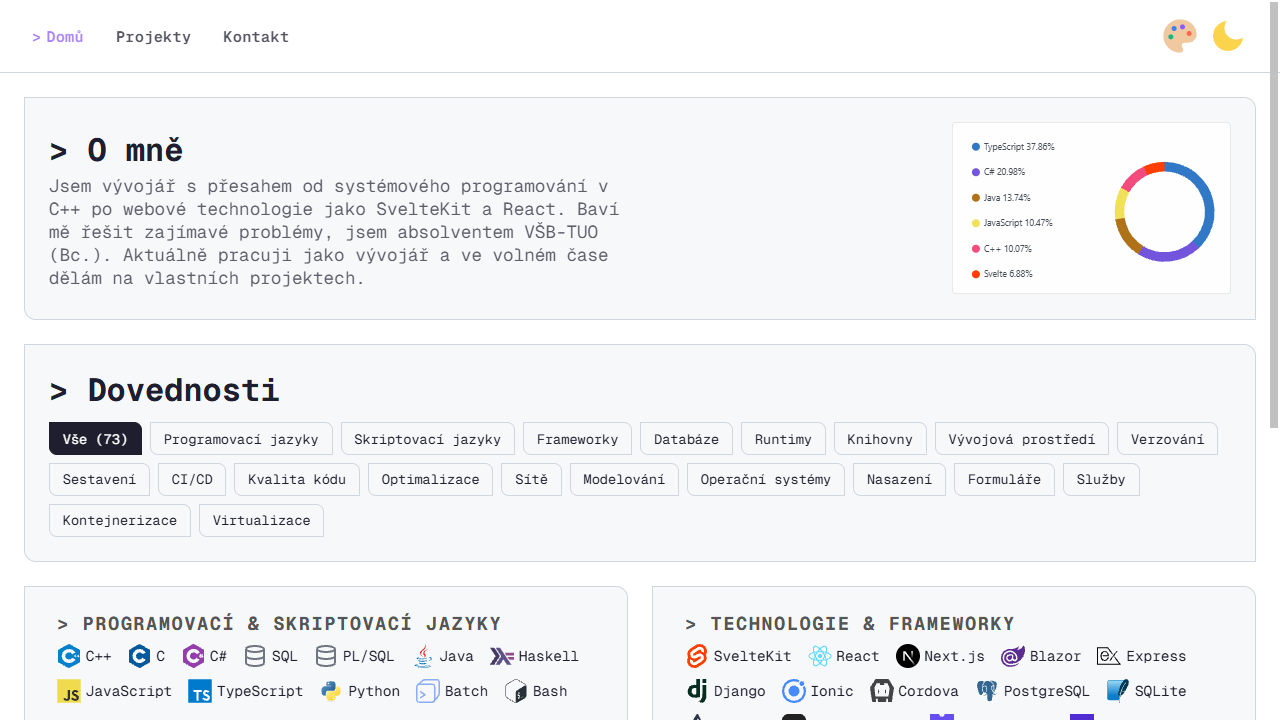
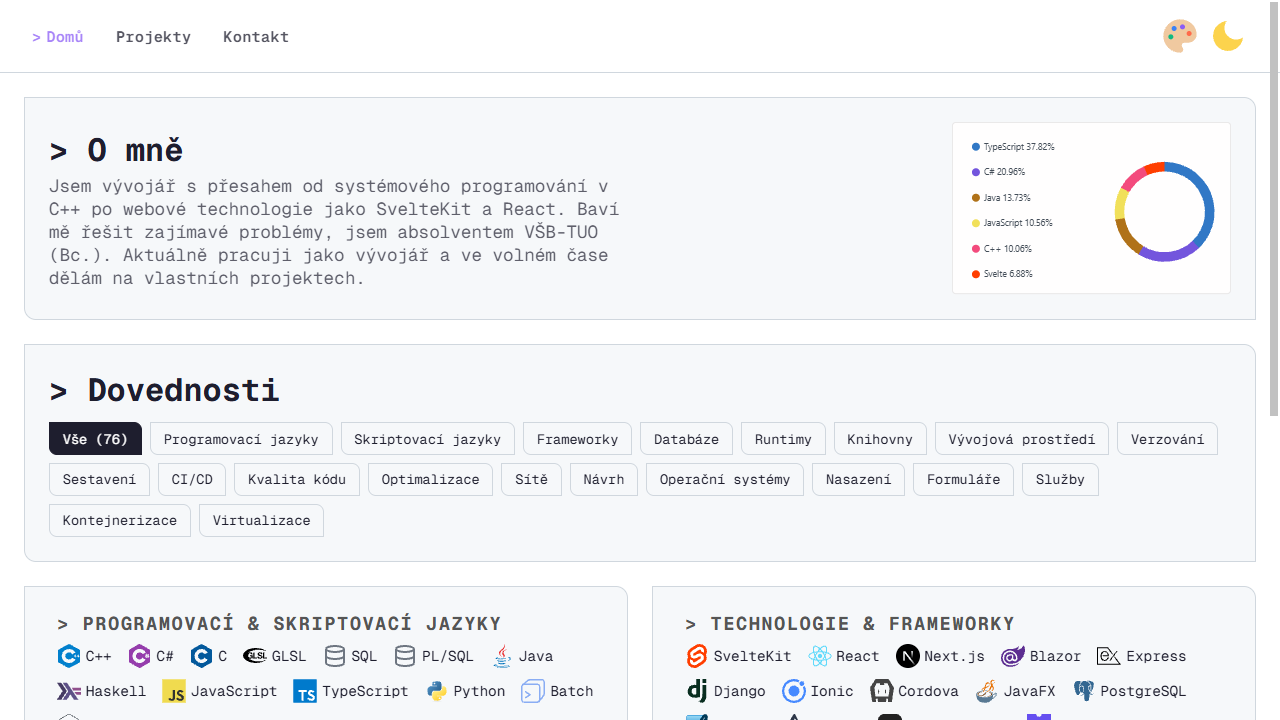
Add missing skills

diff --git a/src/routes/+page.svelte b/src/routes/+page.svelte
@@ -4,8 +4,8 @@
 
 <script lang="ts">
   import {
-    CLogo, CppLogo, CSharpLogo, GradleLogo, DoxygenLogo, PostmanLogo, BootstrapLogo, OpenGLLogo, PrismaLogo, SwigLogo, ExpressLogo, BlazorLogo, PostgreSQLLogo, SQLiteLogo, NextJSLogo, IntelliJIDEALogo, BashLogo, BatchLogo, JavaScriptLogo, TypeScriptLogo, NodeJSLogo, GNUMakeLogo, ViteLogo, DatabaseIcon, PythonLogo, CordovaLogo, IonicLogo, EmscriptenLogo, PacketTracerLogo, VirtualBoxLogo, VmwareLogo, SvelteKitLogo, TampermonkeyLogo, FormspreeLogo, JavaLogo, HaskellLogo, ReactLogo, DotnetLogo, DjangoLogo, WebAssemblyLogo, VisualStudioLogo, VisualStudioCodeLogo, GitLogo, GitLabLogo, GitHubLogo, CloudflareWorkersLogo, NetlifyLogo, MavenLogo, SonarQubeLogo, ESLintLogo, PuttyLogo, WindowsLogo, AndroidLogo, LinuxLogo, RenderLogo, NeonLogo, DockerLogo, MakeLogo, NtfyLogo, NpmLogo, VisualParadigmLogo, GitHubActionsLogo, DependabotLogo, PrettierLogo, JQueryLogo, SSMSLogo, SVGOLogo, EsbuildLogo, PurgeCSSLogo, AWTLogo, HCaptchaLogo, Web3FormsLogo,
-    CLogoOriginal, CppLogoOriginal, CSharpLogoOriginal, GradleLogoOriginal, DoxygenLogoOriginal, PostmanLogoOriginal, BootstrapLogoOriginal, OpenGLLogoOriginal, PrismaLogoOriginal, BlazorLogoOriginal, PostgreSQLLogoOriginal, SQLiteLogoOriginal, NextJSLogoOriginal, IntelliJIDEALogoOriginal, BashLogoOriginal, BatchLogoOriginal, JavaScriptLogoOriginal, TypeScriptLogoOriginal, NodeJSLogoOriginal, PythonLogoOriginal, CordovaLogoOriginal, IonicLogoOriginal, PacketTracerLogoOriginal, VirtualBoxLogoOriginal, VmwareLogoOriginal, SvelteKitLogoOriginal, TampermonkeyLogoOriginal, FormspreeLogoOriginal, JavaLogoOriginal, HaskellLogoOriginal, ReactLogoOriginal, DotnetLogoOriginal, DjangoLogoOriginal, WebAssemblyLogoOriginal, VisualStudioLogoOriginal, VisualStudioCodeLogoOriginal, GitLogoOriginal, GitLabLogoOriginal, GitHubLogoOriginal, CloudflareWorkersLogoOriginal, NetlifyLogoOriginal, MavenLogoOriginal, SonarQubeLogoOriginal, ESLintLogoOriginal, PuttyLogoOriginal, WindowsLogoOriginal, AndroidLogoOriginal, LinuxLogoOriginal, ViteLogoOriginal, DatabaseIconOriginal, EmscriptenLogoOriginal, NeonLogoOriginal, DockerLogoOriginal, MakeLogoOriginal, NtfyLogoOriginal, NpmLogoOriginal, VisualParadigmLogoOriginal, PrettierLogoOriginal, GitHubActionsLogoOriginal, DependabotLogoOriginal, JQueryLogoOriginal, SSMSLogoOriginal, SVGOLogoOriginal, EsbuildLogoOriginal, AWTLogoOriginal, HCaptchaLogoOriginal, Web3FormsLogoOriginal,
+    CLogo, CppLogo, CSharpLogo, GradleLogo, DoxygenLogo, PostmanLogo, BootstrapLogo, OpenGLLogo, PrismaLogo, SwigLogo, ExpressLogo, BlazorLogo, PostgreSQLLogo, SQLiteLogo, NextJSLogo, IntelliJIDEALogo, BashLogo, BatchLogo, JavaScriptLogo, TypeScriptLogo, NodeJSLogo, GNUMakeLogo, ViteLogo, DatabaseIcon, PythonLogo, CordovaLogo, IonicLogo, EmscriptenLogo, PacketTracerLogo, VirtualBoxLogo, VmwareLogo, SvelteKitLogo, TampermonkeyLogo, FormspreeLogo, JavaLogo, HaskellLogo, ReactLogo, DotnetLogo, DjangoLogo, WebAssemblyLogo, VisualStudioLogo, VisualStudioCodeLogo, GitLogo, GitLabLogo, GitHubLogo, CloudflareWorkersLogo, NetlifyLogo, MavenLogo, SonarQubeLogo, ESLintLogo, PuttyLogo, WindowsLogo, AndroidLogo, LinuxLogo, RenderLogo, NeonLogo, DockerLogo, MakeLogo, NtfyLogo, NpmLogo, VisualParadigmLogo, GitHubActionsLogo, DependabotLogo, PrettierLogo, JQueryLogo, SSMSLogo, SVGOLogo, EsbuildLogo, PurgeCSSLogo, AWTLogo, HCaptchaLogo, Web3FormsLogo, GLSLLogo, JavaFXLogo, SceneBuilderLogo,
+    CLogoOriginal, CppLogoOriginal, CSharpLogoOriginal, GradleLogoOriginal, DoxygenLogoOriginal, PostmanLogoOriginal, BootstrapLogoOriginal, OpenGLLogoOriginal, PrismaLogoOriginal, BlazorLogoOriginal, PostgreSQLLogoOriginal, SQLiteLogoOriginal, NextJSLogoOriginal, IntelliJIDEALogoOriginal, BashLogoOriginal, BatchLogoOriginal, JavaScriptLogoOriginal, TypeScriptLogoOriginal, NodeJSLogoOriginal, PythonLogoOriginal, CordovaLogoOriginal, IonicLogoOriginal, PacketTracerLogoOriginal, VirtualBoxLogoOriginal, VmwareLogoOriginal, SvelteKitLogoOriginal, TampermonkeyLogoOriginal, FormspreeLogoOriginal, JavaLogoOriginal, HaskellLogoOriginal, ReactLogoOriginal, DotnetLogoOriginal, DjangoLogoOriginal, WebAssemblyLogoOriginal, VisualStudioLogoOriginal, VisualStudioCodeLogoOriginal, GitLogoOriginal, GitLabLogoOriginal, GitHubLogoOriginal, CloudflareWorkersLogoOriginal, NetlifyLogoOriginal, MavenLogoOriginal, SonarQubeLogoOriginal, ESLintLogoOriginal, PuttyLogoOriginal, WindowsLogoOriginal, AndroidLogoOriginal, LinuxLogoOriginal, ViteLogoOriginal, DatabaseIconOriginal, EmscriptenLogoOriginal, NeonLogoOriginal, DockerLogoOriginal, MakeLogoOriginal, NtfyLogoOriginal, NpmLogoOriginal, VisualParadigmLogoOriginal, PrettierLogoOriginal, GitHubActionsLogoOriginal, DependabotLogoOriginal, JQueryLogoOriginal, SSMSLogoOriginal, SVGOLogoOriginal, EsbuildLogoOriginal, AWTLogoOriginal, HCaptchaLogoOriginal, Web3FormsLogoOriginal, JavaFXLogoOriginal, SceneBuilderLogoOriginal
   } from '$lib/assets/icons';
   import { onMount } from 'svelte';
   import { skillCategories, uniqueSkills } from '$lib/data/skills';
@@ -64,8 +64,9 @@
           <h3 class="heading"><span class="heading-prefix">></span> Programovací & skriptovací jazyky</h3>
           <div class="skill-items">
             <span class="skill-item" class:disabled={!isSkillActive('C++')}><span class="logo-wrapper"><img src={CppLogo} alt="C++" class="custom-logo logo-default" loading="lazy" decoding="async"/><img src={CppLogoOriginal} alt="C++" class="custom-logo logo-hover"/></span> C++</span>
-            <span class="skill-item" class:disabled={!isSkillActive('C')}><span class="logo-wrapper"><img src={CLogo} alt="C" class="custom-logo logo-default" loading="lazy" decoding="async"/><img src={CLogoOriginal} alt="C" class="custom-logo logo-hover"/></span> C</span>
             <span class="skill-item" class:disabled={!isSkillActive('C#')}><span class="logo-wrapper"><img src={CSharpLogo} alt="C#" class="custom-logo logo-default" loading="lazy" decoding="async"/><img src={CSharpLogoOriginal} alt="C#" class="custom-logo logo-hover"/></span> C#</span>
+            <span class="skill-item" class:disabled={!isSkillActive('C')}><span class="logo-wrapper"><img src={CLogo} alt="C" class="custom-logo logo-default" loading="lazy" decoding="async"/><img src={CLogoOriginal} alt="C" class="custom-logo logo-hover"/></span> C</span>
+            <span class="skill-item" class:disabled={!isSkillActive('GLSL')}><img src={GLSLLogo} alt="GLSL" class="custom-logo logo-default" loading="lazy" decoding="async"/> GLSL</span>
             <span class="skill-item" class:disabled={!isSkillActive('SQL')}><span class="logo-wrapper"><img src={DatabaseIcon} alt="SQL" class="custom-logo logo-default" loading="lazy" decoding="async"/><img src={DatabaseIconOriginal} alt="SQL" class="custom-logo logo-hover"/></span> SQL</span>
             <span class="skill-item" class:disabled={!isSkillActive('PL/SQL')}><span class="logo-wrapper"><img src={DatabaseIcon} alt="PL/SQL" class="custom-logo logo-default" loading="lazy" decoding="async"/><img src={DatabaseIconOriginal} alt="PL/SQL" class="custom-logo logo-hover"/></span> PL/SQL</span>
             <span class="skill-item" class:disabled={!isSkillActive('Java')}><span class="logo-wrapper"><img src={JavaLogo} alt="Java" class="custom-logo logo-default" loading="lazy" decoding="async"/><img src={JavaLogoOriginal} alt="Java" class="custom-logo logo-hover"/></span> Java</span>
@@ -91,6 +92,7 @@
             <span class="skill-item" class:disabled={!isSkillActive('Django')}><span class="logo-wrapper"><img src={DjangoLogo} alt="Django" class="custom-logo logo-default" loading="lazy" decoding="async"/><img src={DjangoLogoOriginal} alt="Django" class="custom-logo logo-hover"/></span> Django</span>
             <span class="skill-item" class:disabled={!isSkillActive('Ionic')}><span class="logo-wrapper"><img src={IonicLogo} alt="Ionic" class="custom-logo logo-default" loading="lazy" decoding="async"/><img src={IonicLogoOriginal} alt="Ionic" class="custom-logo logo-hover"/></span> Ionic</span>
             <span class="skill-item" class:disabled={!isSkillActive('Cordova')}><span class="logo-wrapper"><img src={CordovaLogo} alt="Cordova" class="custom-logo logo-default" loading="lazy" decoding="async"/><img src={CordovaLogoOriginal} alt="Cordova" class="custom-logo logo-hover"/></span> Cordova</span>
+            <span class="skill-item" class:disabled={!isSkillActive('JavaFX')}><span class="logo-wrapper"><img src={JavaFXLogo} alt="JavaFX" class="custom-logo logo-default" loading="lazy" decoding="async"/><img src={JavaFXLogoOriginal} alt="JavaFX" class="custom-logo logo-hover"/></span> JavaFX</span>
             <span class="skill-item" class:disabled={!isSkillActive('PostgreSQL')}><span class="logo-wrapper"><img src={PostgreSQLLogo} alt="PostgreSQL" class="custom-logo logo-default" loading="lazy" decoding="async"/><img src={PostgreSQLLogoOriginal} alt="PostgreSQL" class="custom-logo logo-hover"/></span> PostgreSQL</span>
             <span class="skill-item" class:disabled={!isSkillActive('SQLite')}><span class="logo-wrapper"><img src={SQLiteLogo} alt="SQLite" class="custom-logo logo-default" loading="lazy" decoding="async"/><img src={SQLiteLogoOriginal} alt="SQLite" class="custom-logo logo-hover"/></span> SQLite</span>
             <span class="skill-item" class:disabled={!isSkillActive('Prisma')}><span class="logo-wrapper"><img src={PrismaLogo} alt="Prisma" class="custom-logo logo-default" loading="lazy" decoding="async"/><img src={PrismaLogoOriginal} alt="Prisma" class="custom-logo logo-hover"/></span> Prisma</span>
@@ -134,6 +136,7 @@
             <span class="skill-item" class:disabled={!isSkillActive('PuTTY')}><span class="logo-wrapper"><img src={PuttyLogo} alt="PuTTY" class="custom-logo logo-default" loading="lazy" decoding="async"/><img src={PuttyLogoOriginal} alt="PuTTY" class="custom-logo logo-hover"/></span> PuTTY</span>
             <span class="skill-item" class:disabled={!isSkillActive('Packet Tracer')}><span class="logo-wrapper"><img src={PacketTracerLogo} alt="Packet Tracer" class="custom-logo logo-default" loading="lazy" decoding="async"/><img src={PacketTracerLogoOriginal} alt="Packet Tracer" class="custom-logo logo-hover"/></span> Packet Tracer</span>
             <span class="skill-item" class:disabled={!isSkillActive('Visual Paradigm')}><span class="logo-wrapper"><img src={VisualParadigmLogo} alt="Visual Paradigm" class="custom-logo logo-default" loading="lazy" decoding="async"/><img src={VisualParadigmLogoOriginal} alt="Visual Paradigm" class="custom-logo logo-hover"/></span> Visual Paradigm</span>
+            <span class="skill-item" class:disabled={!isSkillActive('Scene Builder')}><span class="logo-wrapper"><img src={SceneBuilderLogo} alt="Scene Builder" class="custom-logo logo-default" loading="lazy" decoding="async"/><img src={SceneBuilderLogoOriginal} alt="Scene Builder" class="custom-logo logo-hover"/></span> Scene Builder</span>
           </div>
         </div>
       </div>

diff --git a/src/lib/assets/icons/index.js b/src/lib/assets/icons/index.js
@@ -105,6 +105,9 @@ export { default as PurgeCSSLogo } from './skills/purgecss.svg';
 export { default as AWTLogo } from './skills/awt.svg';
 export { default as HCaptchaLogo } from './skills/hcaptcha.svg';
 export { default as Web3FormsLogo } from './skills/web3forms.svg';
+export { default as GLSLLogo } from './skills/glsl.svg';
+export { default as JavaFXLogo } from './skills/javafx.svg';
+export { default as SceneBuilderLogo } from './skills/scenebuilder.svg';
 
 export { default as CLogoOriginal } from './skills/c-original.svg';
 export { default as CppLogoOriginal } from './skills/cpp-original.svg';
@@ -154,7 +157,6 @@ export { default as PuttyLogoOriginal } from './skills/putty-original.svg';
 export { default as WindowsLogoOriginal } from './skills/windows-original.svg';
 export { default as AndroidLogoOriginal } from './skills/android-original.svg';
 export { default as LinuxLogoOriginal } from './skills/linux-original.svg';
-export { default as GNUMakeLogoOriginal } from './skills/gnu-make-original.svg';
 export { default as ViteLogoOriginal } from './skills/vite-original.svg';
 export { default as EmscriptenLogoOriginal } from './skills/emscripten-original.svg';
 export { default as NeonLogoOriginal } from './skills/neon-original.svg';
@@ -173,3 +175,5 @@ export { default as EsbuildLogoOriginal } from './skills/esbuild-original.svg';
 export { default as AWTLogoOriginal } from './skills/awt-original.svg';
 export { default as HCaptchaLogoOriginal } from './skills/hcaptcha-original.svg';
 export { default as Web3FormsLogoOriginal } from './skills/web3forms-original.svg';
+export { default as JavaFXLogoOriginal } from './skills/javafx-original.svg';
+export { default as SceneBuilderLogoOriginal } from './skills/scenebuilder-original.svg';

diff --git a/src/lib/data/skills.ts b/src/lib/data/skills.ts
@@ -1,7 +1,7 @@
 export const skillCategories: Record<string, string[]> = {
-  'Programovací jazyky': ['C++', 'C', 'C#', 'SQL', 'PL/SQL', 'Java', 'Haskell', 'JavaScript', 'TypeScript', 'Python'],
+  'Programovací jazyky': ['C++', 'C#', 'C', 'GLSL', 'SQL', 'PL/SQL', 'Java', 'Haskell', 'JavaScript', 'TypeScript', 'Python'],
   'Skriptovací jazyky': ['Batch', 'Bash'],
-  'Frameworky': ['SvelteKit', 'React', 'Next.js', 'Blazor', 'Express', 'Django', 'Ionic', 'Cordova'],
+  'Frameworky': ['SvelteKit', 'React', 'Next.js', 'Blazor', 'Express', 'Django', 'Ionic', 'Cordova', 'JavaFX'],
   'Databáze': ['PostgreSQL', 'SQLite', 'Prisma', 'Neon'],
   'Runtimy': ['.NET', 'Node.js', 'Tampermonkey', 'WebAssembly'],
   'Knihovny': ['OpenGL', 'Bootstrap', 'jQuery'],
@@ -12,7 +12,7 @@ export const skillCategories: Record<string, string[]> = {
   'Kvalita kódu': ['Doxygen', 'SonarQube', 'ESLint', 'Prettier'],
   'Optimalizace': ['esbuild', 'PurgeCSS', 'SVGO'],
   'Sítě': ['Postman', 'PuTTY', 'Packet Tracer'],
-  'Modelování': ['Visual Paradigm'],
+  'Návrh': ['Visual Paradigm', 'Scene Builder'],
   'Operační systémy': ['Windows', 'Linux', 'Android'],
   'Nasazení': ['Cloudflare Workers', 'Netlify', 'Render'],
   'Formuláře': ['Formspree', 'Web3Forms'],
